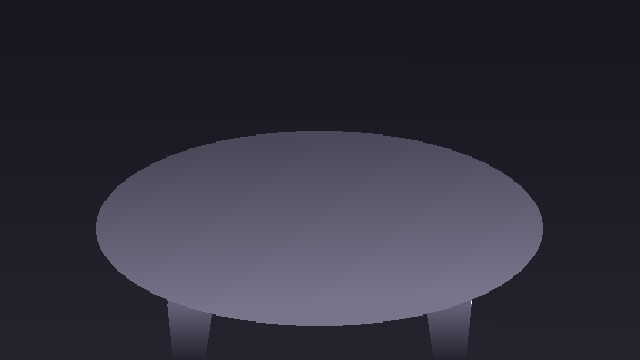
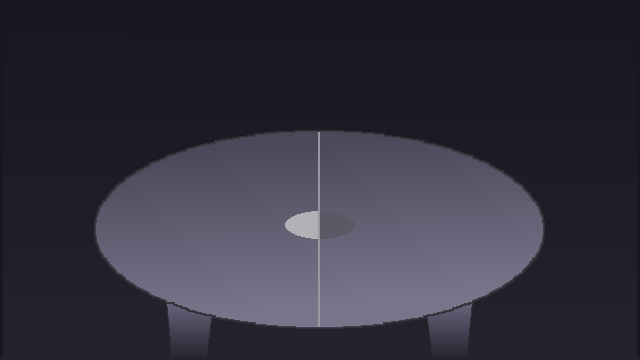
fixed check enemy deaths and added eraseDeadEnemies. Working on full functionality/non-functionality of alive flag for enemies

diff --git a/combat.cpp b/combat.cpp
@@ -251,8 +251,9 @@ void Combat::performAttack(QueuedAction& action) {
 	chain.registerHit();
 	std::cout << "Chain count: " << chain.getChainCount() << std::endl;
 	messageLog.addMessage(player->getName() + " hits the " + enemy->getName() + " for " + std::to_string(damage) + " damage!", sf::Color::Black);
-	if (actionQueue.empty())
+	
 	checkEnemyDeath(*enemy);
+	if (actionQueue.empty()) eraseDeadEnemies();
 }
 
 void Combat::performSkill(QueuedAction& action) {
@@ -276,8 +277,8 @@ void Combat::performSkill(QueuedAction& action) {
 		
 		messageLog.addMessage(player->getName() + " uses " + skill->getName() + " on the " + enemy->getName() + " for " + std::to_string(totalDamage) + " damage!", sf::Color::Black);
 		
-		if (actionQueue.empty())
 		checkEnemyDeath(*enemy);
+		if (actionQueue.empty()) eraseDeadEnemies();
 		break;
 	}
 	case SkillType::Heal: {
@@ -322,8 +323,17 @@ void Combat::executeNextAction() {
 		return;
 	}
 
-	executeAction(actionQueue.front());
+	QueuedAction action = actionQueue.front();
+	if (!action.target->isAlive()) {
+		for (auto& enemy : enemies) {
+			if (enemy.isAlive()) {
+				action.target = &enemy;
+				break;
+			}
+		}
+	}
 	actionQueue.erase(actionQueue.begin());
+	executeAction(action);
 
 	if (currentState == CombatState::Victory || currentState == CombatState::Defeat) {
 		actionQueue.clear();
@@ -434,15 +444,19 @@ void Combat::checkEnemyDeath(Enemy& enemy) {
 			player.addExp(enemy.getExpValue());
 		}
 
-
-		std::erase_if(enemies, [](const auto& enemy) {
-			return enemy.getHp() <= 0;
-			});
-
-		if (enemies.empty()) {
-			currentState = CombatState::Victory;
+		for (auto& enemy : enemies) {
+			if (enemy.isAlive()) {
+				return;
+			}
 		}
+		currentState = CombatState::Victory;
 	}
+}
+
+void Combat::eraseDeadEnemies() {
+	std::erase_if(enemies, [](const auto& enemy) {
+		return enemy.getHp() <= 0;
+		});
 }
 
 void Combat::checkCombatEnd() {

diff --git a/combat.h b/combat.h
@@ -130,6 +130,7 @@ private:
 	void updateEnemyAnimation(float dt);
 	std::vector<EnemySpawn> makeRandomEncounter();
 	void checkEnemyDeath(Enemy& enemy);
+	void eraseDeadEnemies();
 	void checkCombatEnd();
 	void advanceActivePlayer();
 };
